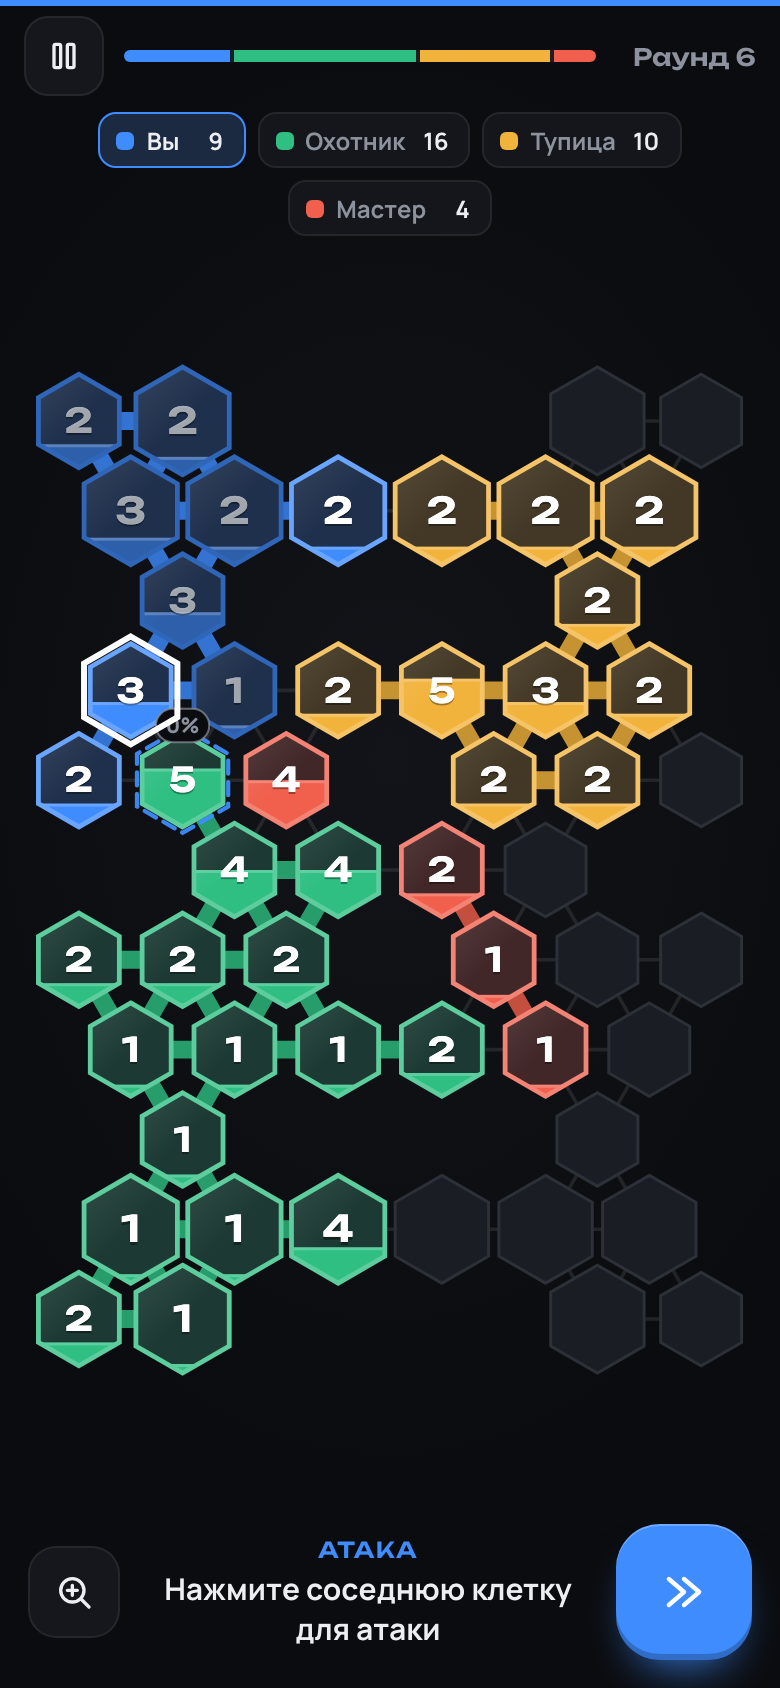
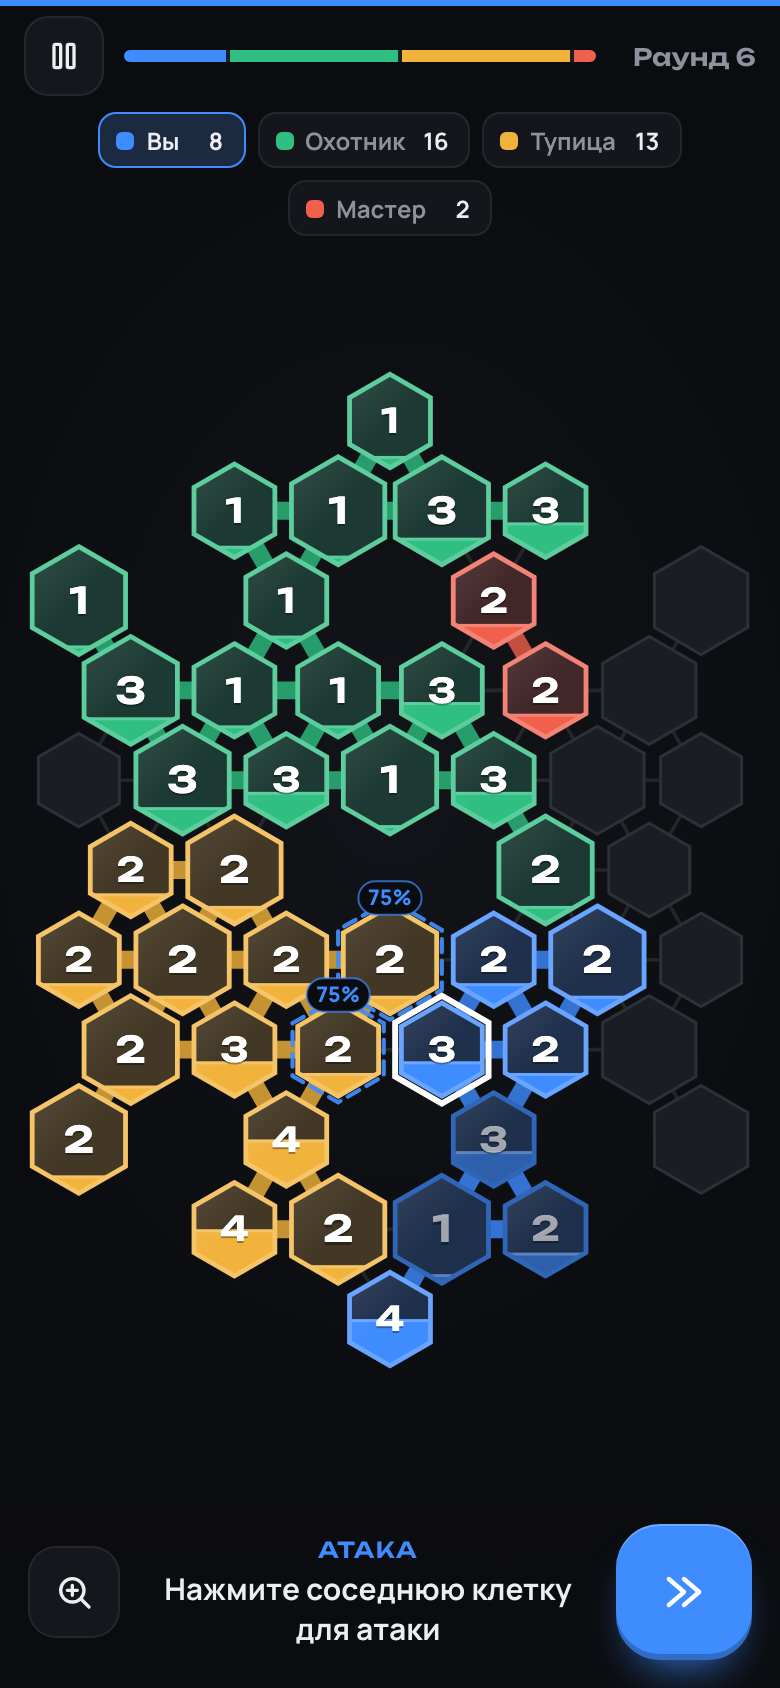
Fresh README screenshots; SEO: descriptive title and meta, Open Graph link preview, schema.org data, static description, sitemap

diff --git a/index.html b/index.html
@@ -3,19 +3,88 @@
   <head>
     <meta charset="UTF-8" />
     <meta name="viewport" content="width=device-width, initial-scale=1, viewport-fit=cover, user-scalable=no" />
+    <title>Influence Web — стратегия по мотивам «Влияния» онлайн в браузере</title>
+    <meta
+      name="description"
+      content="Бесплатный фанатский браузерный ремейк пошаговой стратегии «Влияние» (Influence): битвы с ботами, игра вдвоём на одном устройстве, онлайн-дуэли с другом и карта дня. Работает на iPhone, Android, ПК и Mac без установки."
+    />
+    <meta
+      name="keywords"
+      content="влияние игра, influence игра, влияние онлайн, influence teremok, влияние в браузере, влияние на пк, влияние на iphone, стратегия гексы, захват территории, influence web"
+    />
+    <link rel="canonical" href="https://nelkio.github.io/influence-web/" />
+    <meta name="robots" content="index, follow" />
+
+    <!-- link previews (Telegram, VK, X, Discord...) -->
+    <meta property="og:type" content="website" />
+    <meta property="og:site_name" content="Influence Web" />
+    <meta property="og:title" content="Influence Web — «Влияние» в браузере" />
+    <meta
+      property="og:description"
+      content="Пошаговая стратегия о захвате территории: боты, игра вдвоём, онлайн-дуэли, карта дня. Бесплатно, без установки, на любом устройстве."
+    />
+    <meta property="og:url" content="https://nelkio.github.io/influence-web/" />
+    <meta property="og:image" content="https://nelkio.github.io/influence-web/og.png" />
+    <meta property="og:image:width" content="1200" />
+    <meta property="og:image:height" content="630" />
+    <meta property="og:locale" content="ru_RU" />
+    <meta property="og:locale:alternate" content="en_US" />
+    <meta name="twitter:card" content="summary_large_image" />
+    <meta name="twitter:title" content="Influence Web — «Влияние» в браузере" />
+    <meta name="twitter:description" content="Turn-based territory strategy in the browser: bots, hot-seat, online duels, daily map." />
+    <meta name="twitter:image" content="https://nelkio.github.io/influence-web/og.png" />
+
     <meta name="theme-color" content="#0b0c0f" />
     <meta name="mobile-web-app-capable" content="yes" />
     <meta name="apple-mobile-web-app-capable" content="yes" />
     <meta name="apple-mobile-web-app-title" content="Influence" />
-    <meta name="description" content="Influence Web — turn-based territory strategy. Play vs bots, with friends on one device, online duels and a daily map." />
+    <meta name="apple-mobile-web-app-status-bar-style" content="black-translucent" />
     <link rel="icon" href="icon.svg" type="image/svg+xml" />
     <link rel="apple-touch-icon" href="apple-touch-icon.png" />
     <link rel="manifest" href="manifest.webmanifest" />
-    <meta name="apple-mobile-web-app-status-bar-style" content="black-translucent" />
-    <title>Influence Web</title>
+
+    <script type="application/ld+json">
+      {
+        "@context": "https://schema.org",
+        "@type": "VideoGame",
+        "name": "Influence Web",
+        "alternateName": ["Влияние онлайн", "Influence в браузере"],
+        "url": "https://nelkio.github.io/influence-web/",
+        "image": "https://nelkio.github.io/influence-web/og.png",
+        "description": "Бесплатный фанатский браузерный ремейк пошаговой стратегии «Влияние» (Influence) о захвате территории на гексагональном поле.",
+        "genre": ["Strategy", "Turn-based strategy", "Puzzle"],
+        "gamePlatform": ["Web browser", "iOS", "Android", "Windows", "macOS", "Linux"],
+        "applicationCategory": "Game",
+        "operatingSystem": "Any",
+        "playMode": ["SinglePlayer", "MultiPlayer"],
+        "inLanguage": ["ru", "en"],
+        "isAccessibleForFree": true,
+        "offers": { "@type": "Offer", "price": "0", "priceCurrency": "USD" }
+      }
+    </script>
   </head>
   <body>
-    <div id="app"></div>
+    <div id="app">
+      <!-- shown to search engines and before the app starts; replaced by the game -->
+      <main style="font-family: system-ui, sans-serif; color: #eceef2; background: #0b0c0f; max-width: 640px; margin: 0 auto; padding: 32px 20px">
+        <h1>Influence Web — «Влияние» в браузере</h1>
+        <p>
+          Пошаговая стратегия о захвате территории на поле из шестиугольников: атакуйте соседние клетки, получайте силу за
+          каждую свою клетку и захватите всё поле. Бесплатный фанатский ремейк мобильной игры «Влияние» (Influence) от
+          Teremok Games — играйте онлайн на iPhone, Android, ПК и Mac без установки.
+        </p>
+        <ul>
+          <li>Битвы с ботами: Псих, Тупица, Охотник и Мастер, 5 размеров карт, до 5 игроков.</li>
+          <li>Режимы: тьма, толкотня, союзы, симметричные карты.</li>
+          <li>Несколько игроков на одном устройстве и онлайн-дуэли с другом по ссылке.</li>
+          <li>Карта дня: необычные сценарии — осада, лабиринт, троянский конь и другие.</li>
+        </ul>
+        <p>
+          A free fan-made browser remake of the turn-based territory strategy “Influence”: play vs bots, with friends on one
+          device, online duels and daily puzzles. Not affiliated with Teremok Games.
+        </p>
+      </main>
+    </div>
     <script type="module" src="/src/main.tsx"></script>
   </body>
 </html>

diff --git a/src/main.tsx b/src/main.tsx
@@ -11,7 +11,10 @@ import './ui/styles.css';
 import './ui/store';
 import { App } from './ui/App';
 
-render(<App />, document.getElementById('app')!);
+const root = document.getElementById('app')!;
+// drop the static description used by search engines / before the app starts
+root.textContent = '';
+render(<App />, root);
 
 if ('serviceWorker' in navigator && import.meta.env.PROD) {
   window.addEventListener('load', () => {

diff --git a/README.md b/README.md
@@ -1,16 +1,16 @@
 # [▶ Играть в Influence Web](https://nelkio.github.io/influence-web/)
 
-Пошаговая стратегия о захвате территории — прямо в браузере: iPhone, Android, Mac, Windows, Linux.
+**«Влияние» (Influence) в браузере** — пошаговая стратегия о захвате территории. Играйте онлайн на iPhone, Android, ПК и Mac, без установки и бесплатно.
 Фанатский ремейк мобильной игры «Влияние» от Teremok Games.
 
 ![Influence Web](docs/screenshots/hero.png)
 
 <p align="center">
-  <img src="docs/screenshots/battle.png" width="31%" alt="Битва" />
+  <img src="docs/screenshots/battle.png" width="31%" alt="Битва с ботами: шансы атаки прямо на клетках" />
   &nbsp;
-  <img src="docs/screenshots/triangle.png" width="31%" alt="Треугольная карта на троих" />
+  <img src="docs/screenshots/scenario.png" width="31%" alt="Сценарий «Острие»" />
   &nbsp;
-  <img src="docs/screenshots/rules.png" width="31%" alt="Правила" />
+  <img src="docs/screenshots/daily.png" width="31%" alt="Карта дня" />
 </p>
 
 ## Как играть
@@ -20,11 +20,13 @@
 ## Что внутри
 
 - **Битвы с ботами** — 5 размеров карт, до 4 соперников, четыре уровня ботов от Психа до Мастера (Мастер просчитывает ходы методом Монте-Карло).
-- **Режимы** — тьма, толкотня, союзы, симметрия: честные карты для 2–5 игроков, включая треугольник для троих и звезду для пятерых.
-- **Несколько игроков на одном устройстве** — с экраном передачи хода.
+- **Режимы** — тьма, толкотня, союзы, симметрия: честные карты для 2–5 игроков, включая треугольники, кольца и звёзды.
+- **Несколько игроков на одном устройстве** — с экраном передачи хода в режиме тьмы.
 - **Дуэли** — онлайн с другом по коду или ссылке (до 5 матчей одновременно), тренировка с ботом, дуэль на одном экране.
 - **Карта дня** — одна для всех: в основном необычные сценарии (осада, лабиринт, троянский конь, спящая армия…), каждый четвёртый день — бой с Мастерами. Все 24 сценария можно сыграть и отдельно.
 - Статистика, настройки, RU/EN, работает офлайн и ставится на домашний экран как приложение.
+
+> **English:** a free fan-made browser remake of the turn-based territory strategy *Influence* — play vs bots, hot-seat with friends, online duels by link and 24 hand-made daily puzzle scenarios. Works on any device, no install.
 
 ## Разработка
 
